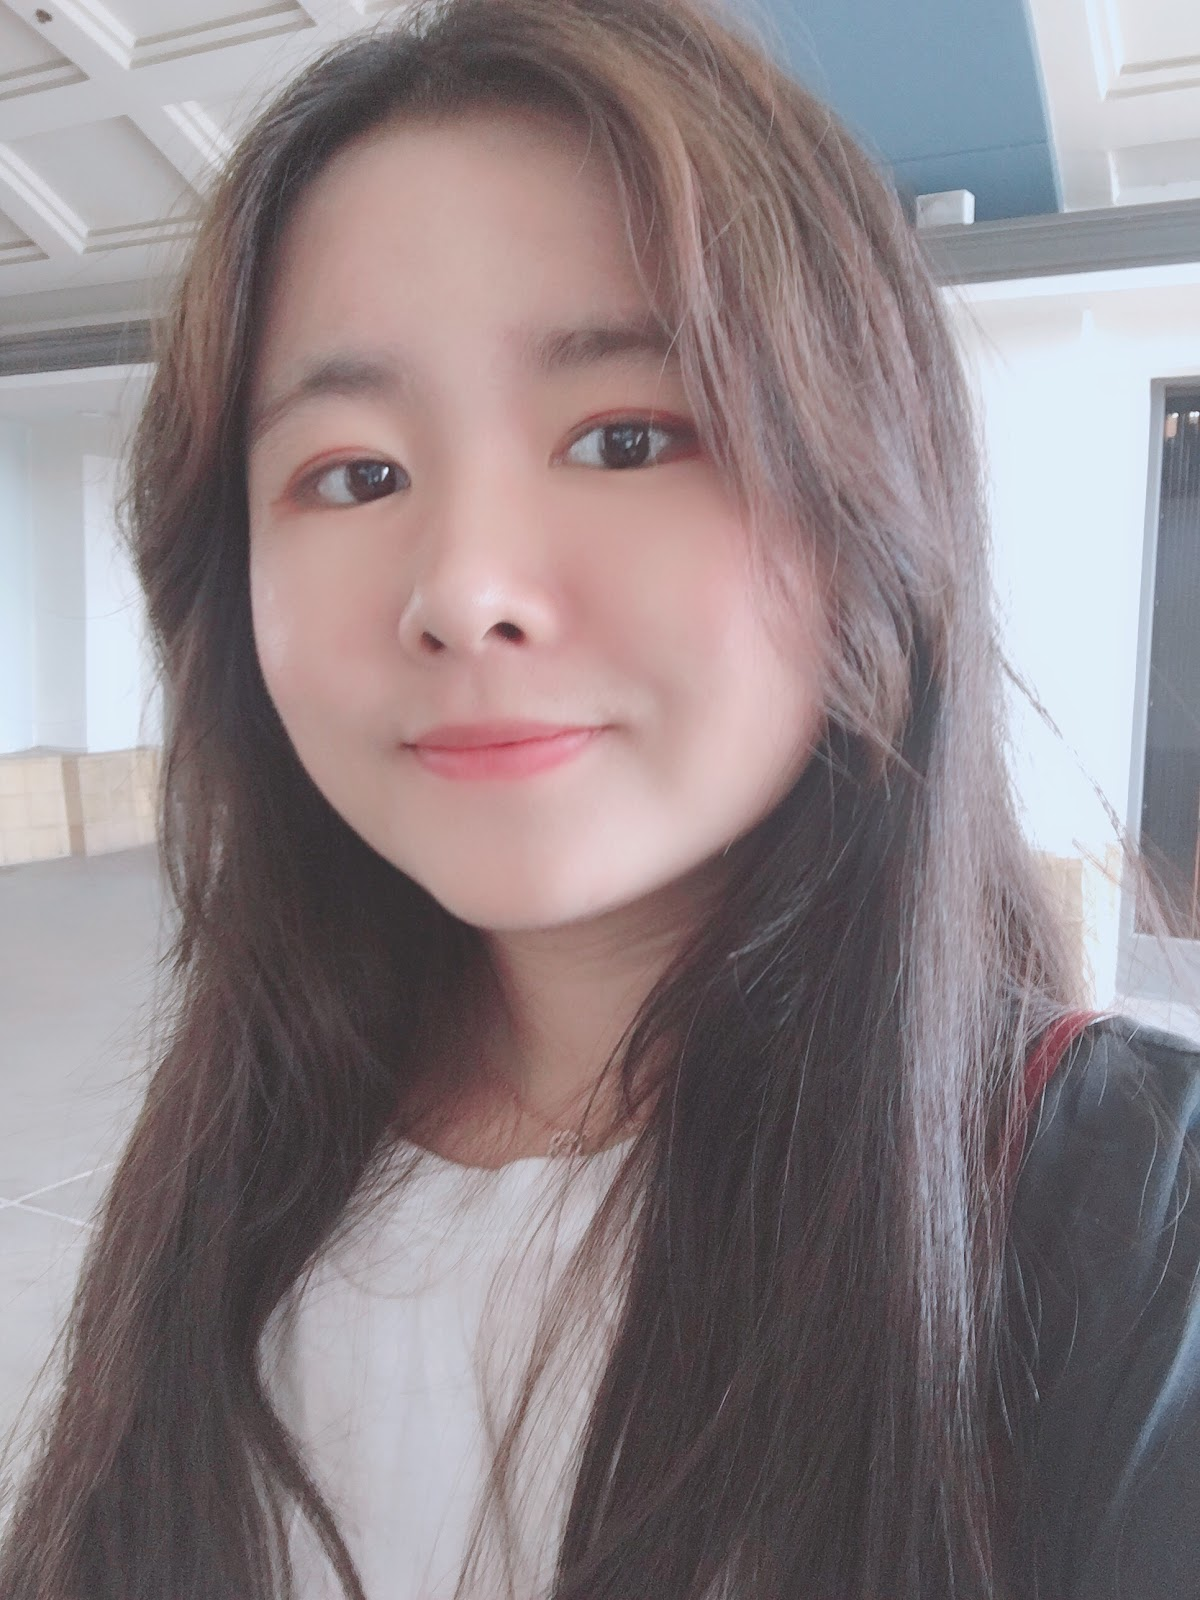
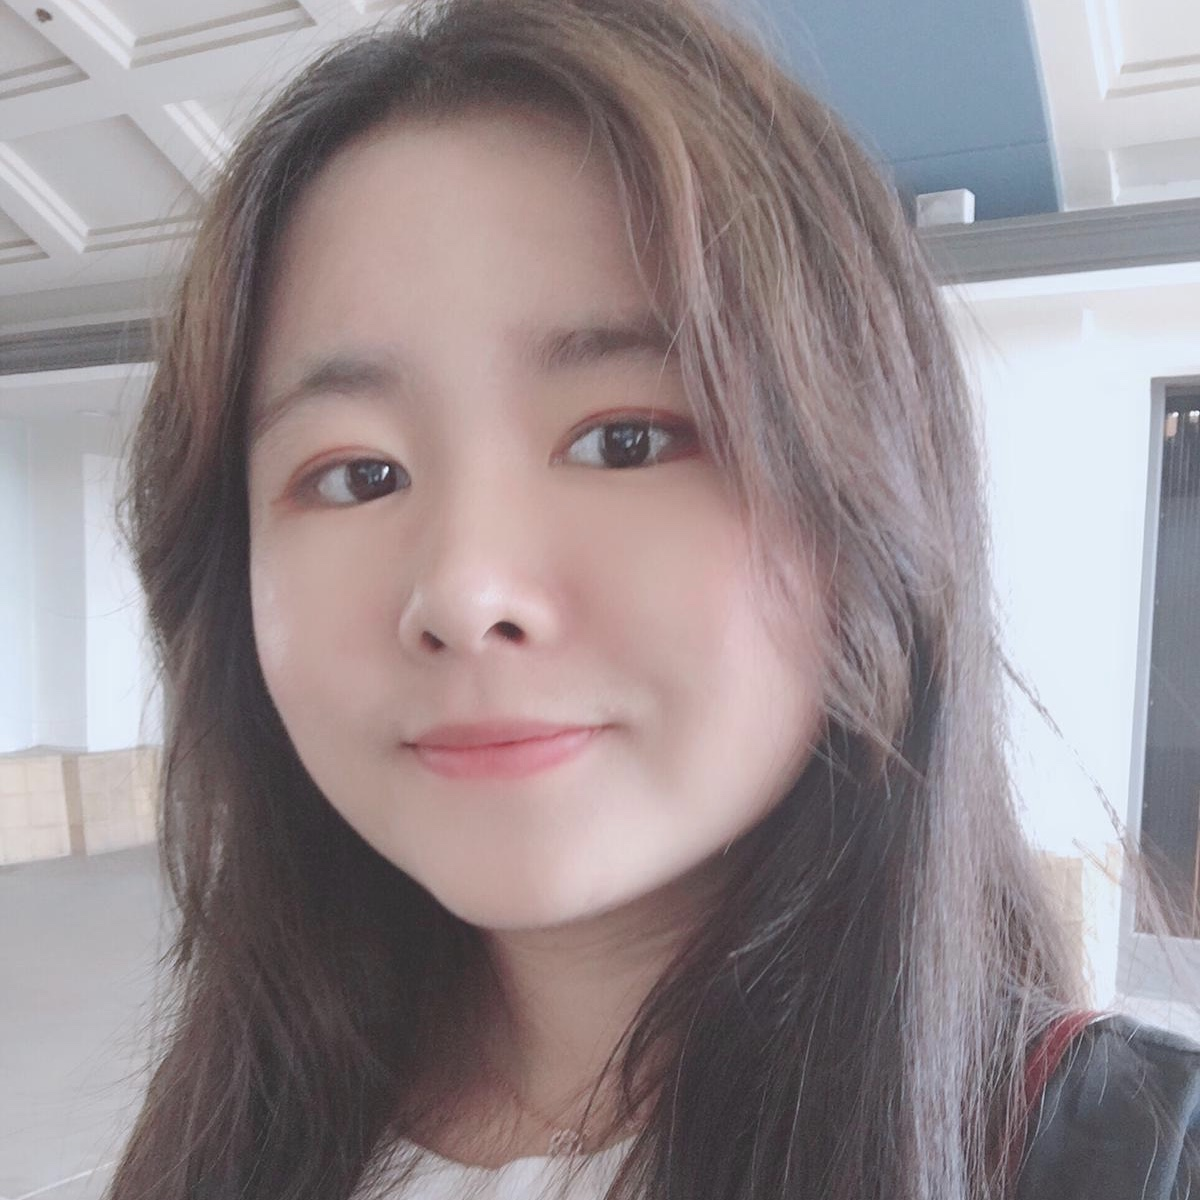
Sahil patel/add classes (#33)
* photo update + Tutor Register page

* tutor classes stuff

* deleted function no longer needed

diff --git a/public/tutorClasses.html b/public/tutorClasses.html
@@ -1,0 +1,104 @@
+<!DOCTYPE HTML>
+<!--
+	Introspect by TEMPLATED
+	templated.co @templatedco
+	Released for free under the Creative Commons Attribution 3.0 license (templated.co/license)
+-->
+<html>
+	<head>
+		<title>Search - A++ Learning</title>
+		<meta charset="utf-8" />
+        <meta name="viewport" content="width=device-width, initial-scale=1, user-scalable=no" />
+        <script src="https://www.gstatic.com/firebasejs/6.3.4/firebase-app.js"></script>
+        <script src="https://www.gstatic.com/firebasejs/6.3.4/firebase-auth.js"></script>
+        <script src="https://www.gstatic.com/firebasejs/6.3.4/firebase-firestore.js"></script>
+        <script src="https://ajax.googleapis.com/ajax/libs/jquery/3.4.1/jquery.min.js"></script>
+        <link rel="stylesheet" href="assets/css/main.css" />
+        <script src="./config.js"></script>
+        <meta name="viewport" content="width=device-width, initial-scale=1">
+	</head>
+	<body onload="initialize(); tutorReg();">
+
+
+
+		<!-- Header -->
+        <header id="header">
+            <div class="inner">
+                <a href="index.html" class="logo">A++ Learning</a>
+            </div>
+        </header>
+        <a href="#menu" class="navPanelToggle"><span class="fa fa-bars"></span></a>
+            
+
+
+    
+        <!-- Main -->
+
+        <!-- FORM  -->
+        <style>
+    
+            *{margin: 0; padding: 0;}
+            body{background:#2b2b2b ; font-family: sans-serif; margin-left:15%; margin-right:15%; margin:center;}
+            
+            .form-wrap{ border-style:double; border-width:3px; border-color:white; width: 90%; background: #2b2b2b; padding: 40px 20px; box-sizing: border-box; position: fixed; left: 50%; top: 57%; transform: translate(-50%, -50%);}
+            
+            
+            h1{text-align: center; color: #ffffffc5; font-weight: normal; margin-bottom:20px; font-family:cursive}
+            
+            input{width: 100%; background: none; border: 1px solid #fff; border-radius: 3px; padding: 6px 15px; box-sizing: border-box; margin-bottom: 20px; font-size: 16px; color: #fff;}
+            
+            input[type="button"]{ background: #bac675; border: 0; cursor: pointer; color: #3e3d3d; width:15%; margin:center;text-align:center;}
+            input[type="button"]:hover{ background: #0b5504; transition: .6s; width:15%; margin:center;text-align:center;}
+            /* #a4b15c */
+            
+            ::placeholder{color: #fff;}
+
+            .classBox1{width:26.65%;background:#2b2b2b;box-sizing:border-box;position:left;border-style:double; border-color:white;margin:left;}
+            .classBox2{width:26.65%;background:#2b2b2b;box-sizing:border-box;position:middle;border-style:double; border-color:white;margin:center;}
+            .classBox3{width:26.65%;background:#2b2b2b;box-sizing:border-box;position:right;border-style:double; border-color:white;margin:right;}
+
+            
+
+        </style>
+
+
+        <div class="box-red">
+            <div class="form-wrap">
+                <h1>Input Classes</h1>
+                   
+                        <div class="newspaper">
+                                <input type="checkbox" name="Math 009A" value="1" id="0" /><label for="Classes">Math 009A</label></span><br/>
+                                <input type="checkbox" name="Math 009B" value="2" id="1" /><label for="Classes">Math 009B</label></span><br/>
+                                <input type="checkbox" name="Math 009C" value="3" id="2" /><label for="Classes">Math 009C</label></span><br/>
+                                <input type="checkbox" name="CS 005" value="4" id="3" /><label for="Classes">CS 005</label></span><br/>
+                                <input type="checkbox" name="CS 008" value="5" id="4" /><label for="Classes">CS 008</label></span><br/>
+                                <input type="checkbox" name="CS 010" value="6" id="5" /><label for="Classes">CS 010</label></span><br/>
+                                <input type="checkbox" name="Engl 1A" value="7" id="6" /><label for="Classes">Engl 1A</label></span><br/>
+                                <input type="checkbox" name="Engl 1B" value="8" id="7" /><label for="Classes">Engl 1B</label></span><br/>
+                                <input type="checkbox" name="Engl 1C" value="9" id="8" /><label for="Classes">Engl 1C</label></span><br/>
+                                <input type="checkbox" name="Phys 040A" value="10" id="9" /><label for="Classes">Phys 040A</label></span><br/>
+                                <input type="checkbox" name="Phys 040B" value="11" id="10" /><label for="Classes">Phys 040B</label></span><br/>
+                                <input type="checkbox" name="Phys 040C" value="12" id="11" /><label for="Classes">Phys 040C</label></span><br/>
+                                
+                        </div>     
+                                
+                      
+                        <input type="button" value="Submit" id="tutorSubmit" onclick="pushToFireStore()">
+                        
+                  
+                
+                
+            </div>
+
+            <!-- END FORM -->
+                
+
+            <!-- Scripts -->
+                <script src="assets/js/jquery.min.js"></script>
+                <script src="assets/js/skel.min.js"></script>
+                <script src="assets/js/util.js"></script>
+                <script src="assets/js/main.js"></script>
+        </div>
+    </body>
+    
+</html>

diff --git a/public/assets/css/main.css b/public/assets/css/main.css
@@ -2090,10 +2090,9 @@
 		padding: 0.75em 1em;
 	}
 
-	input[type="checkbox"],
+
 	input[type="radio"] {
 		-moz-appearance: none;
-		
 		-ms-appearance: none;
 		appearance: none; 
 		color:white;
@@ -2104,7 +2103,7 @@
 		z-index: -1;
 	}
 
-		input[type="checkbox"] + label,
+		/* input[type="checkbox"] + label, */
 		input[type="radio"] + label {
 			text-decoration: none;
 			cursor: pointer;
@@ -2116,7 +2115,7 @@
 			position: relative;
 		}
 
-			input[type="checkbox"] + label:before,
+			/* input[type="checkbox"] + label:before, */
 			input[type="radio"] + label:before {
 				-moz-osx-font-smoothing: grayscale;
 				-webkit-font-smoothing: antialiased;
@@ -2126,7 +2125,7 @@
 				text-transform: none !important;
 			}
 
-			input[type="checkbox"] + label:before,
+			/* input[type="checkbox"] + label:before, */
 			input[type="radio"] + label:before {
 				border-radius: 0;
 				border: solid 1px;
@@ -2141,14 +2140,14 @@
 				width: 1.65em;
 			}
 
-		input[type="checkbox"]:checked + label:before,
+		/* input[type="checkbox"]:checked + label:before, */
 		input[type="radio"]:checked + label:before {
 			content: '\f00c';
 		}
 
-	input[type="checkbox"] + label:before {
+	/* input[type="checkbox"] + label:before {
 		border-radius: 0;
-	}
+	} */
 
 	input[type="radio"] + label:before {
 		border-radius: 50%;
@@ -2200,25 +2199,25 @@
 		color: #e5474b;
 	}
 
-	input[type="checkbox"] + label,
+	/* input[type="checkbox"] + label, */
 	input[type="radio"] + label {
 		color: #111111;
 	}
 
-		input[type="checkbox"] + label:before,
+		/* input[type="checkbox"] + label:before, */
 		input[type="radio"] + label:before {
 			background: none;
 			border-color: #e5474b;
 		}
 
-	input[type="checkbox"]:checked + label:before,
+	/* input[type="checkbox"]:checked + label:before, */
 	input[type="radio"]:checked + label:before {
 		background-color: #e5474b;
 		border-color: #e5474b;
 		color: #ffffff;
 	}
 
-	input[type="checkbox"]:focus + label:before,
+	/* input[type="checkbox"]:focus + label:before, */
 	input[type="radio"]:focus + label:before {
 		border-color: #e5474b;
 		box-shadow: 0 0 0 1px #e5474b;
@@ -3841,5 +3840,39 @@
 			color: #0062cc;
 		}
 
-
-
+		.newspaper {
+			-webkit-column-count: 6; /* Chrome, Safari, Opera */
+			-moz-column-count: 6; /* Firefox */
+			column-count: 6;
+			color:white;
+			display:inline-block;
+		}
+		input[type="checkbox"] + label{
+			color:white;
+			text-decoration: none;
+			
+			cursor: pointer;
+			display: inline-block;
+			font-size: 1em;
+			font-weight: 300; 
+			/* padding-left: 0em;
+			padding-right: 1.75em; */
+			/* position: left; */
+			 /* -moz-osx-font-smoothing: grayscale; */
+			/* -webkit-font-smoothing: antialiased; */
+			/* font-family: FontAwesome; */
+			font-style: normal;
+			font-weight: normal;
+			/* text-transform: none !important; */
+			border-radius: 0; 
+			/* border: solid 1px; */
+			/* /content: ''; */
+			display: inline-block;
+			/* height: 1.65em;  */
+			/* left: 0; */
+			line-height: 1.58125em;
+			/* position: absolute; */
+			text-align: center; 
+			/* top: 0; */
+			/* width: 1em; */
+		}

diff --git a/public/register.html b/public/register.html
@@ -15,8 +15,9 @@
         <script src="https://ajax.googleapis.com/ajax/libs/jquery/3.4.1/jquery.min.js"></script>
         <link rel="stylesheet" href="assets/css/main.css" />
         <script src="./config.js"></script>
+        <meta name="viewport" content="width=device-width, initial-scale=1">
 	</head>
-	<body onload="initialize()">
+	<body onload="initialize(); tutorReg();">
 
 
 
@@ -60,20 +61,24 @@
         <div class="box-red">
         <div class="form-wrap">
             <h1>Registration</h1>
-            <form>
+                <form name="regForm">
 
-                First Name <input type="text" placeholder="First Name" id="fname">
-                Last Name <input type="text" placeholder="Last Name" id="lname">
-                Email <input type="email" placeholder="Email" id="email">
-                School Name <input type="text" placeholder="School" id="school">
-                 <input type="radio" name="type" value=true id="student">   Student
-                <br>
-              
-                <input type="radio" name="type" value=true id="isTutor">   Student + Tutor
-                <br>
-                <input type="button" value="Register" id="registerbutton" onclick="pushToFireStore()">
+                    First Name <input type="text" placeholder="First Name" id="fname">
+                    Last Name <input type="text" placeholder="Last Name" id="lname">
+                    Email <input type="email" placeholder="Email" id="email">
+                    School Name <input type="text" placeholder="School" id="school">
+                    <input type="radio" name="myRadio" value="1" id="student">   Student
+                    <br>
                 
+                    <input type="radio" name="myRadio" value="2" id="isTutor">   Student + Tutor
+                    <br>
+                    <div class="isTutorTrue">
+                        
+                    </div>
+                    <input type="button" value="Register" id="registerbutton" onclick="pushToFireStore()">
+                    
                 </form>
+               
             
             </div>
 
